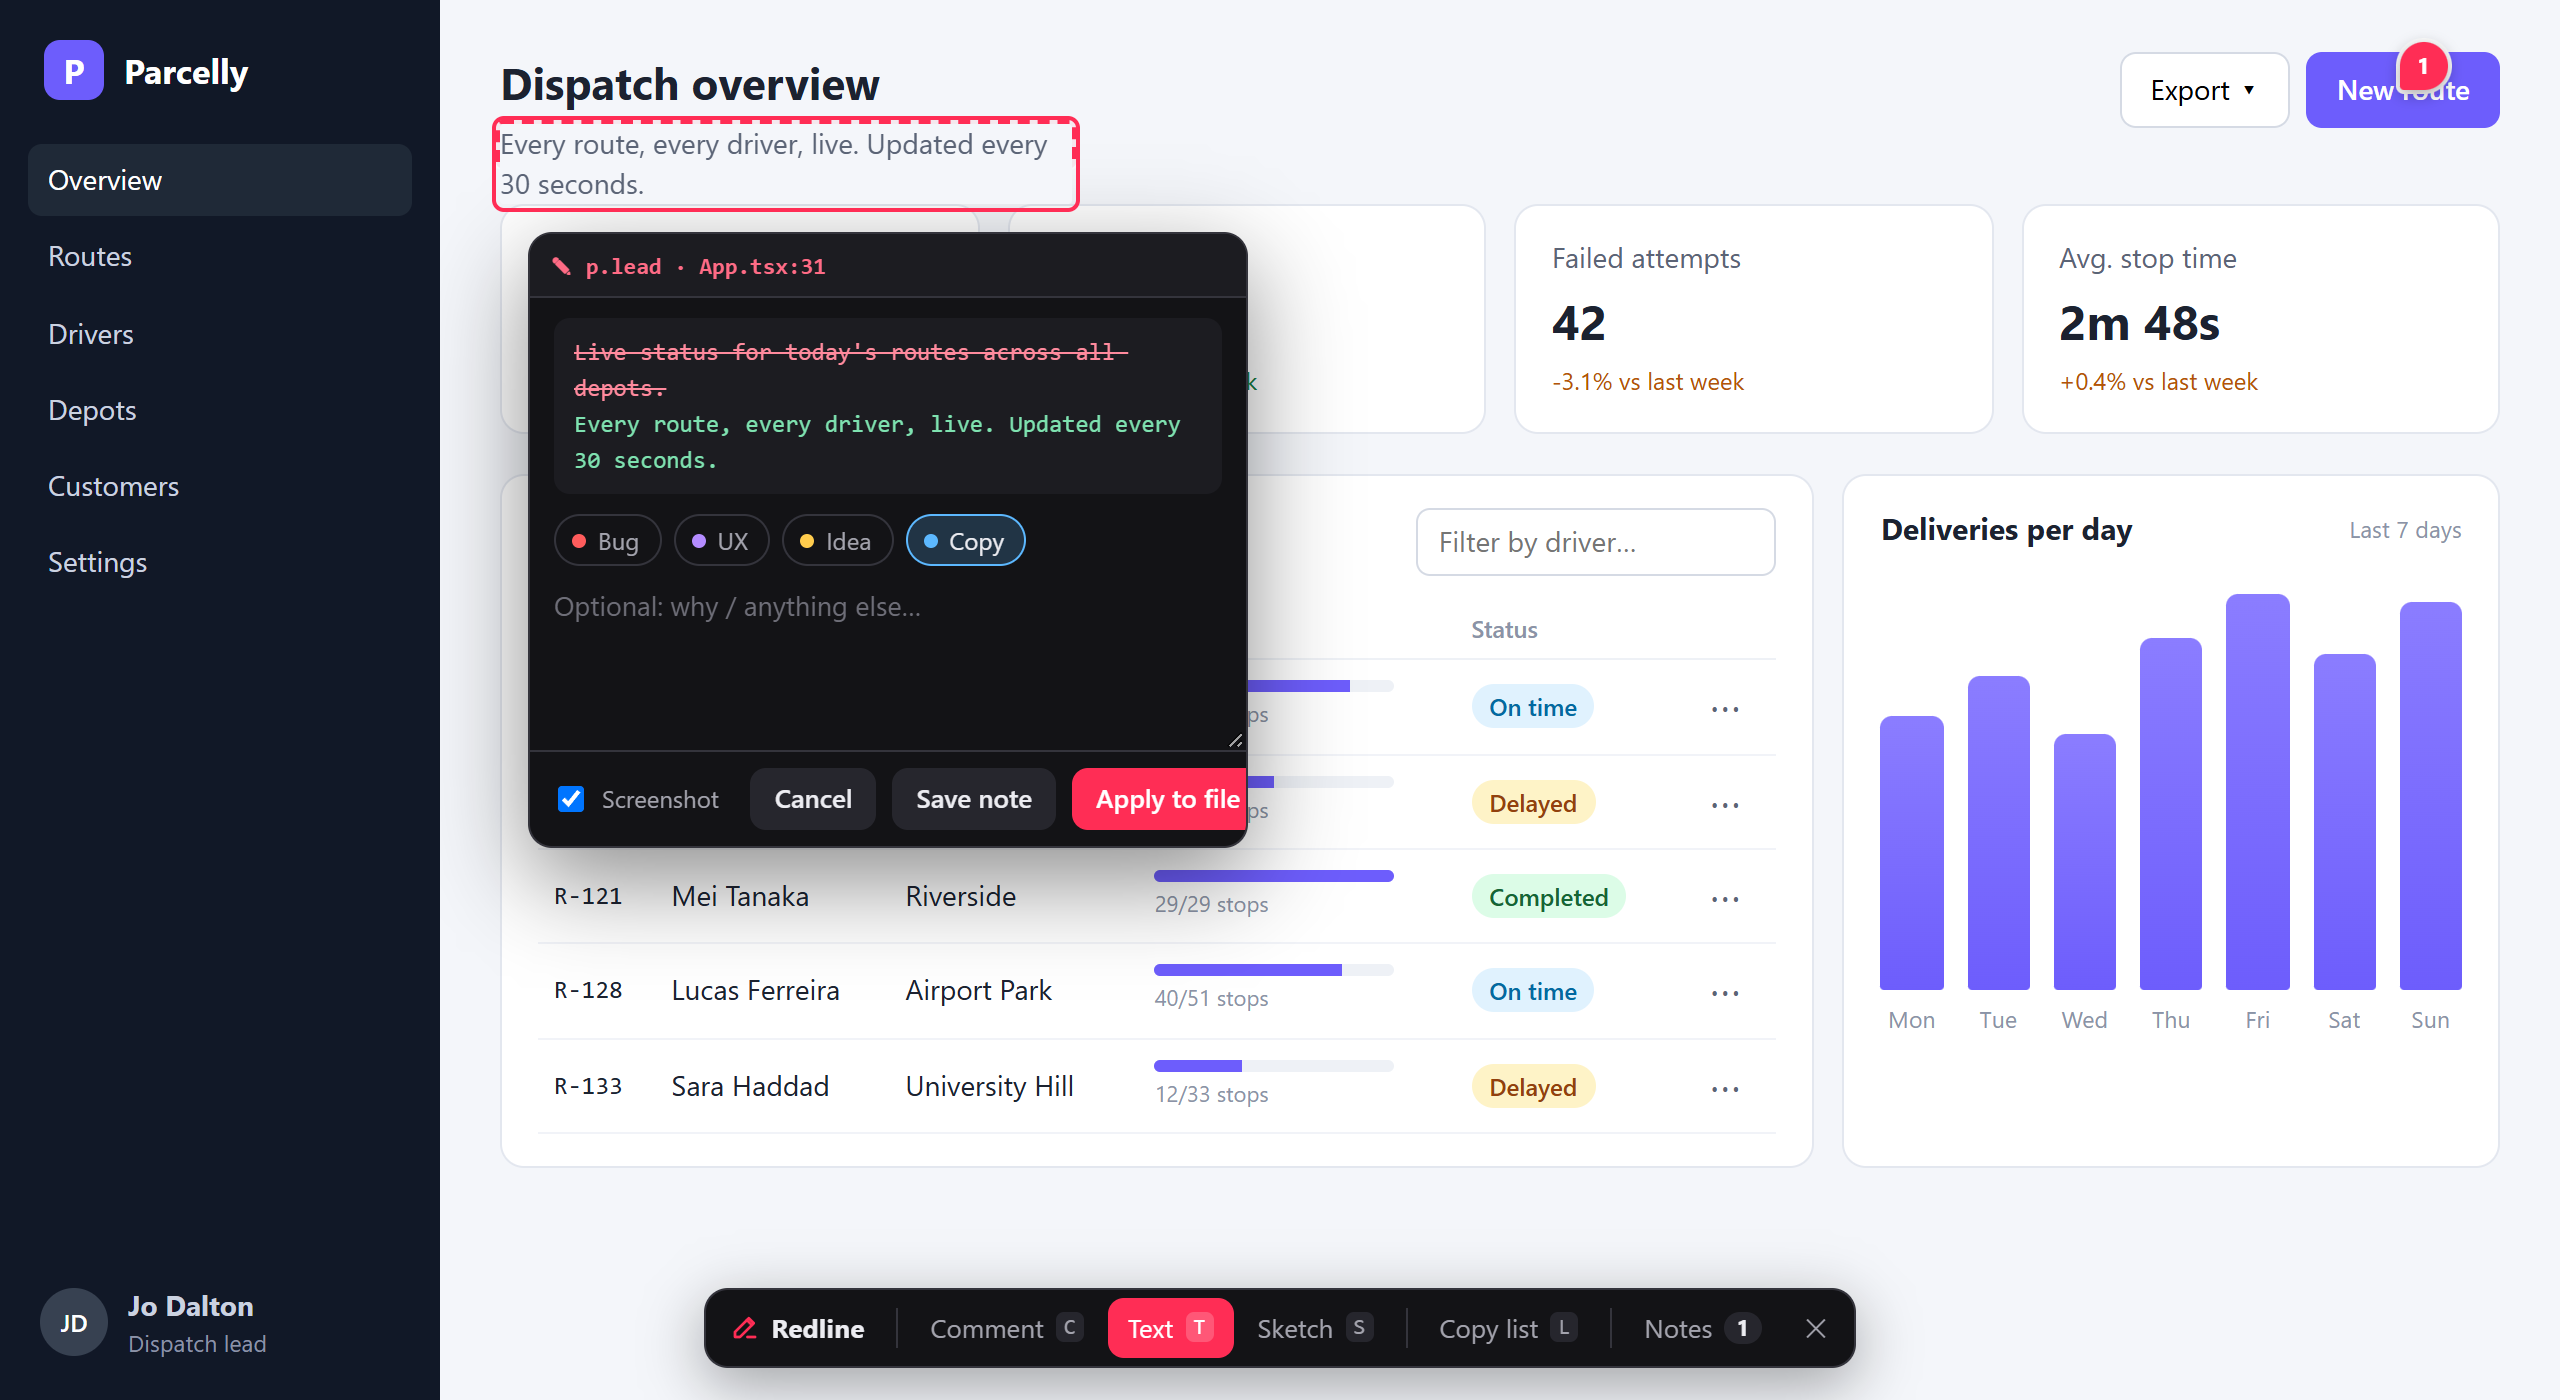
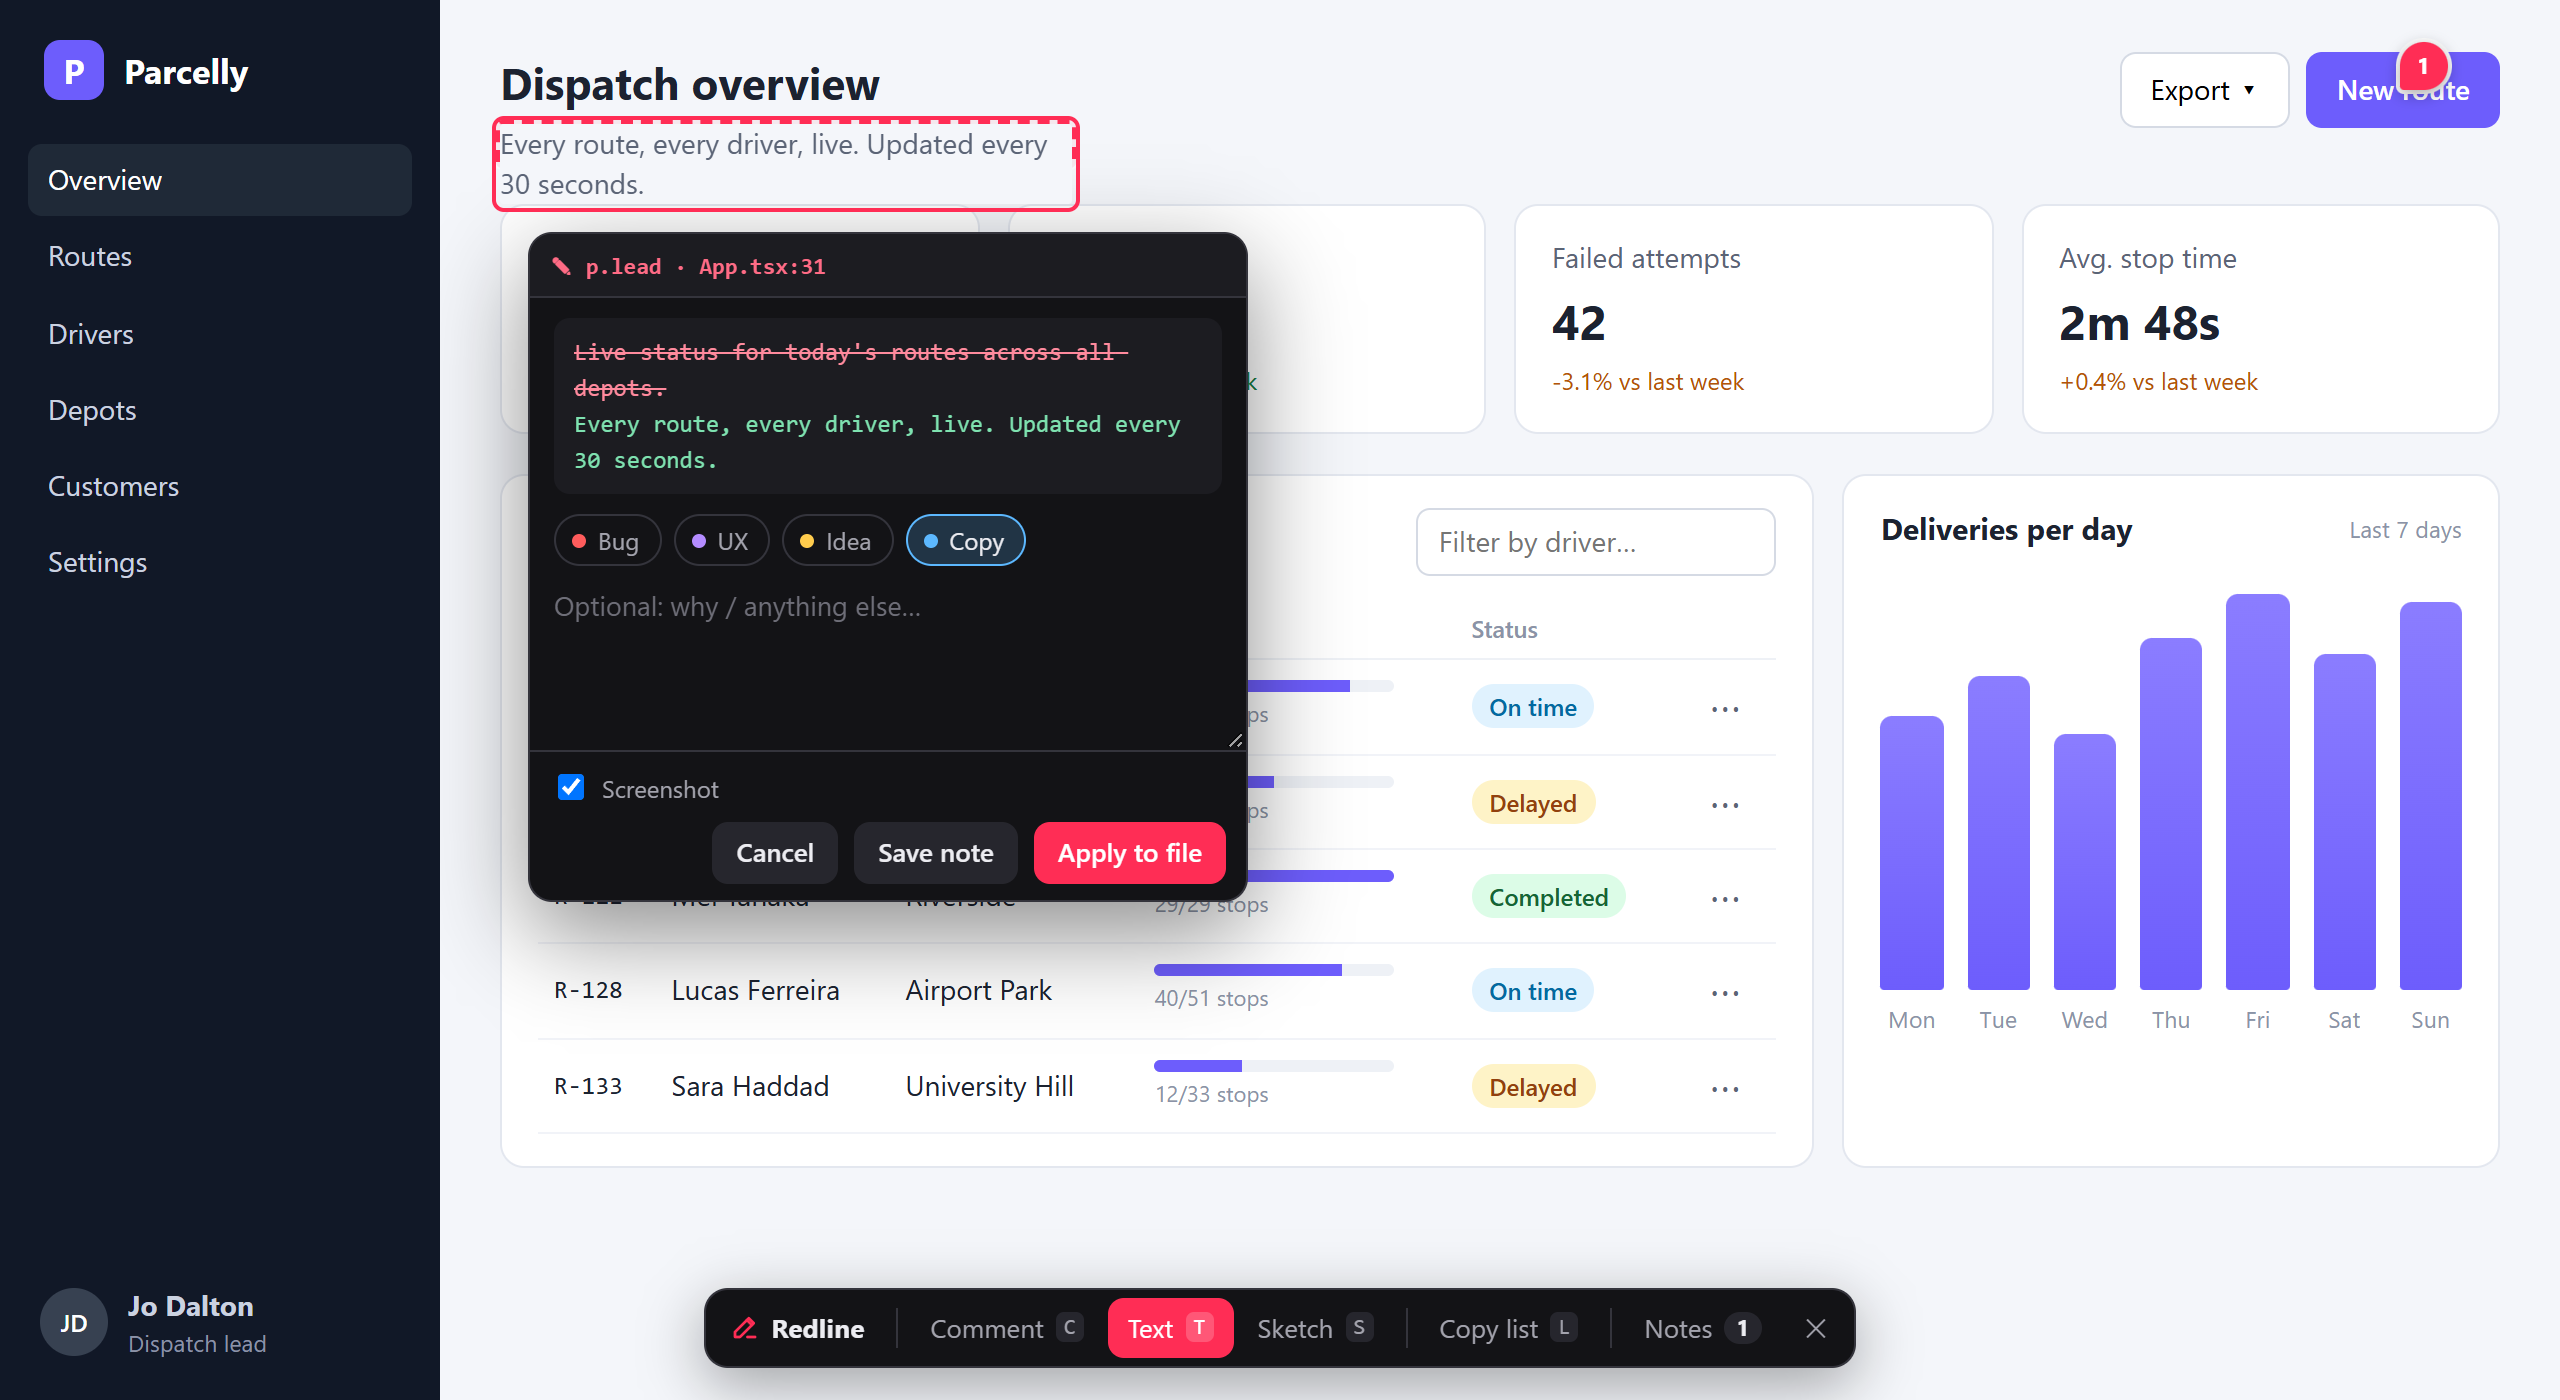
Fix: Apply to file stuck out of the text popover
With direct edit on, the footer held Screenshot, Cancel, Save note and
Apply to file in one 360px row, so the last button ran 8px past the
popover's edge. The buttons are now one group that wraps below the
Screenshot checkbox, right-aligned, when they don't fit. extend.spec.ts
checks every footer button stays inside the popover (all 8 frameworks).

Claude-Session: https://claude.ai/code/session_014XAqdpR2HgHoarwQTouZoq

Changed region(s): [[0.1875, 0.5221, 0.5, 0.7064]]

diff --git a/src/client/styles.ts b/src/client/styles.ts
@@ -74,9 +74,9 @@ kbd { font: 11px ui-monospace, SFMono-Regular, Consolas, monospace; padding: 1px
 .pop .diff { margin: 10px 12px 0; padding: 8px 10px; border-radius: 8px; background: var(--bg-2); font: 12px/1.5 ui-monospace, SFMono-Regular, Consolas, monospace; white-space: pre-wrap; max-height: 140px; overflow: auto; }
 .pop .diff .del { color: #ff8a9d; text-decoration: line-through; }
 .pop .diff .ins { color: #7ee2b0; }
-.pop footer { display: flex; align-items: center; gap: 8px; padding: 8px 10px; border-top: 1px solid var(--line); }
+.pop footer { display: flex; flex-wrap: wrap; align-items: center; gap: 8px; padding: 8px 10px; border-top: 1px solid var(--line); }
 .pop footer label { display: flex; align-items: center; gap: 6px; color: var(--fg-2); font-size: 12px; cursor: pointer; }
-.pop footer .grow { flex: 1; }
+.pop footer .btns { display: flex; gap: 8px; margin-left: auto; }
 .pop footer .btn { white-space: nowrap; }
 .pop .chips { display: flex; flex-wrap: nowrap; gap: 6px; padding: 10px 12px 0; overflow-x: auto; scrollbar-width: none; }
 .pop .chips::-webkit-scrollbar { display: none; }

diff --git a/test/e2e/extend.spec.ts b/test/e2e/extend.spec.ts
@@ -79,6 +79,12 @@ for (const c of cases) {
       await expect(apply).toBeEnabled();
       await expect(apply).toHaveClass(/primary/);
       await expect(ui(page, '.pop .btn').filter({ hasText: 'Save note' })).toBeVisible();
+      // every footer button inside the popover (Apply to file used to stick out past its right edge)
+      const pop = (await ui(page, '.pop').boundingBox())!;
+      for (const b of await ui(page, '.pop footer .btn').all()) {
+        const r = (await b.boundingBox())!;
+        expect(r.x + r.width).toBeLessThanOrEqual(pop.x + pop.width);
+      }
       await apply.click();
       await expect.poll(file.read).toContain('<h2 data-testid="edit-heading">Edited &amp; saved</h2>');
       await expect(page.getByTestId('edit-heading')).toHaveText('Edited & saved');   // HMR or reload

diff --git a/src/client/index.ts b/src/client/index.ts
@@ -471,10 +471,12 @@ async function boot() {
       direct ? direct.why : null,
       h('footer', {},
         h('label', { title: 'Attach a screenshot with the target outlined' }, shot, 'Screenshot'),
-        h('span', { class: 'grow' }),
-        h('button', { class: 'btn', onclick: cancelDraft }, 'Cancel'),
-        save,
-        direct ? direct.btn : null,
+        // The buttons stay together; short of room (Save note + Apply to file) they wrap below, right-aligned.
+        h('span', { class: 'btns' },
+          h('button', { class: 'btn', onclick: cancelDraft }, 'Cancel'),
+          save,
+          direct ? direct.btn : null,
+        ),
       ),
     );
     (pop as HTMLElement & { _shot?: HTMLInputElement })._shot = shot;
